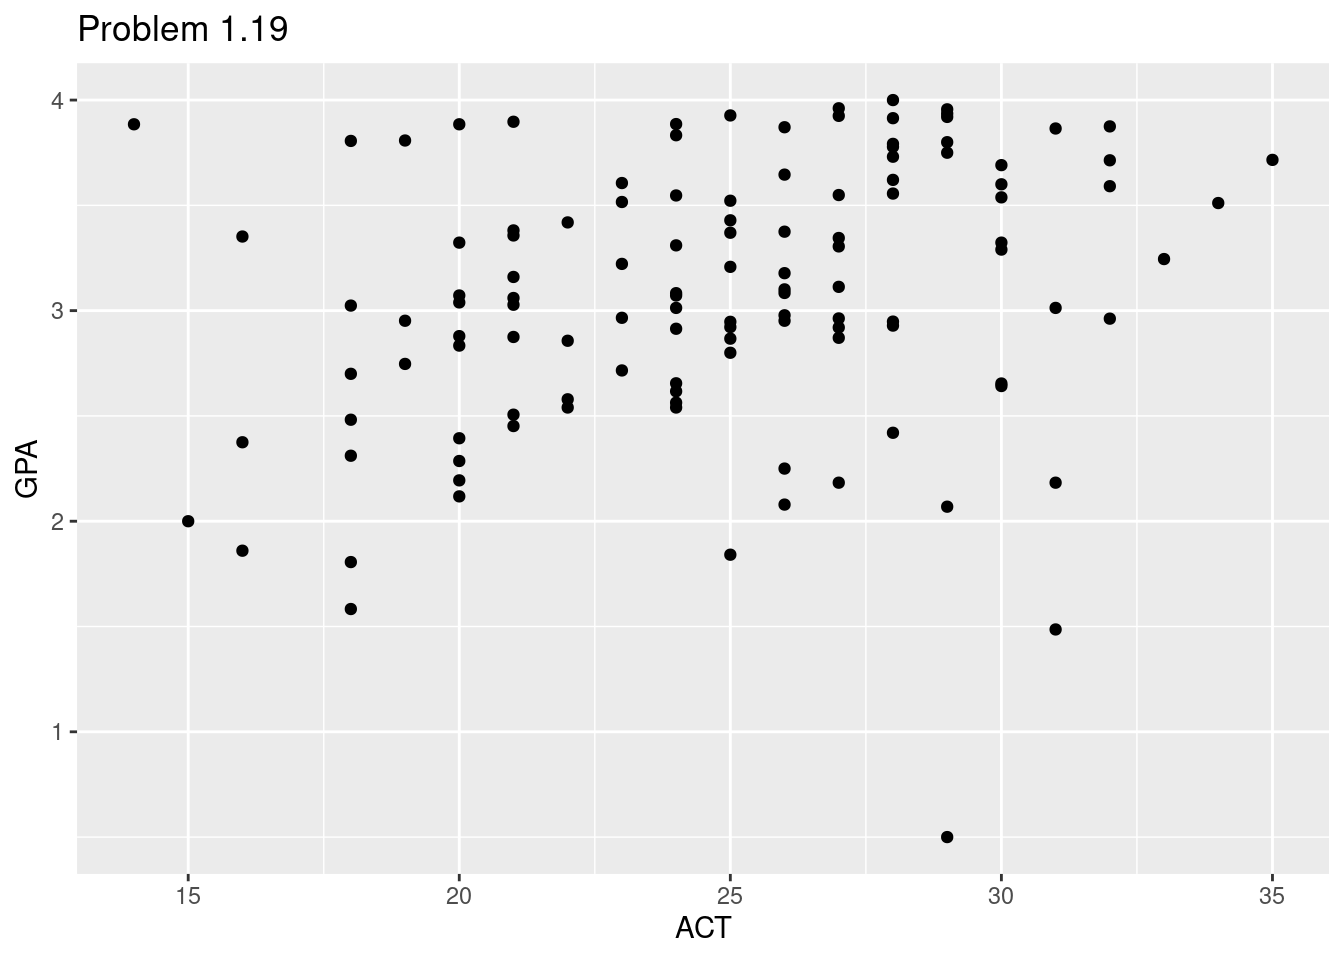
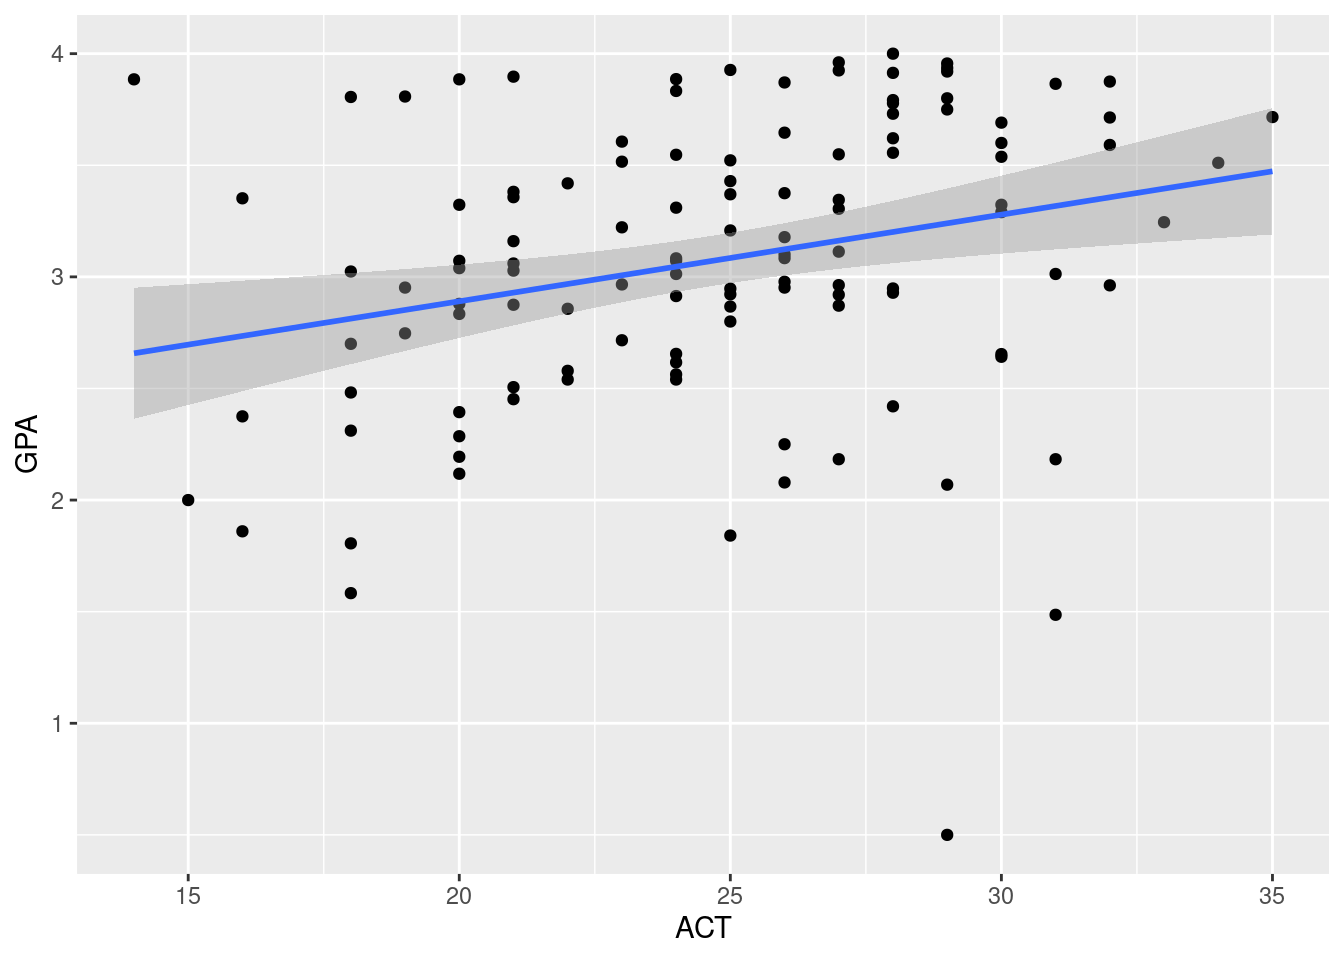
Built site for gh-pages

diff --git a/Rintro.html b/Rintro.html
@@ -355,17 +355,28 @@ pre > code.sourceCode > span > a:first-child::before { text-decoration: underlin
 <div class="sourceCode cell-code" id="cb19"><pre class="sourceCode r code-with-copy"><code class="sourceCode r"><span id="cb19-1"><a href="#cb19-1" aria-hidden="true" tabindex="-1"></a><span class="fu">library</span>(ggplot2)</span>
 <span id="cb19-2"><a href="#cb19-2" aria-hidden="true" tabindex="-1"></a><span class="fu">ggplot</span>(Data, <span class="fu">aes</span>(<span class="at">x =</span> ACT, <span class="at">y =</span> GPA))<span class="sc">+</span></span>
 <span id="cb19-3"><a href="#cb19-3" aria-hidden="true" tabindex="-1"></a>  <span class="fu">geom_point</span>()<span class="sc">+</span></span>
-<span id="cb19-4"><a href="#cb19-4" aria-hidden="true" tabindex="-1"></a>  <span class="fu">labs</span>(</span>
-<span id="cb19-5"><a href="#cb19-5" aria-hidden="true" tabindex="-1"></a>    <span class="at">title =</span> <span class="st">"Problem 1.19"</span></span>
-<span id="cb19-6"><a href="#cb19-6" aria-hidden="true" tabindex="-1"></a>  )</span></code><button title="Copy to Clipboard" class="code-copy-button"><i class="bi"></i></button></pre></div>
+<span id="cb19-4"><a href="#cb19-4" aria-hidden="true" tabindex="-1"></a>  <span class="fu">geom_smooth</span>(<span class="at">method =</span> <span class="st">"lm"</span>)</span></code><button title="Copy to Clipboard" class="code-copy-button"><i class="bi"></i></button></pre></div>
+<div class="cell-output cell-output-stderr">
+<pre><code>`geom_smooth()` using formula = 'y ~ x'</code></pre>
+</div>
 <div class="cell-output-display">
 <p><img src="Rintro_files/figure-html/unnamed-chunk-17-1.png" class="img-fluid" width="672"></p>
+</div>
+<div class="sourceCode cell-code" id="cb21"><pre class="sourceCode r code-with-copy"><code class="sourceCode r"><span id="cb21-1"><a href="#cb21-1" aria-hidden="true" tabindex="-1"></a>  <span class="fu">labs</span>(</span>
+<span id="cb21-2"><a href="#cb21-2" aria-hidden="true" tabindex="-1"></a>    <span class="at">title =</span> <span class="st">"Problem 1.19"</span></span>
+<span id="cb21-3"><a href="#cb21-3" aria-hidden="true" tabindex="-1"></a>  )</span></code><button title="Copy to Clipboard" class="code-copy-button"><i class="bi"></i></button></pre></div>
+<div class="cell-output cell-output-stdout">
+<pre><code>$title
+[1] "Problem 1.19"
+
+attr(,"class")
+[1] "labels"</code></pre>
 </div>
 </div>
 <p>To save your plot, click anywhere on the plot, then on the menu bar choose <code>File</code>, then <code>Save as</code>. Choose the format in which you want to save the plot, then where you want to save it on your drive.</p>
 <p>Check the estimates for the intercept and slope:</p>
 <div class="cell">
-<div class="sourceCode cell-code" id="cb20"><pre class="sourceCode r code-with-copy"><code class="sourceCode r"><span id="cb20-1"><a href="#cb20-1" aria-hidden="true" tabindex="-1"></a>fit</span></code><button title="Copy to Clipboard" class="code-copy-button"><i class="bi"></i></button></pre></div>
+<div class="sourceCode cell-code" id="cb23"><pre class="sourceCode r code-with-copy"><code class="sourceCode r"><span id="cb23-1"><a href="#cb23-1" aria-hidden="true" tabindex="-1"></a>fit</span></code><button title="Copy to Clipboard" class="code-copy-button"><i class="bi"></i></button></pre></div>
 <div class="cell-output cell-output-stdout">
 <pre><code>
 Call:
@@ -378,16 +389,16 @@ Coefficients:
 </div>
 <p>Compute fitted values:</p>
 <div class="cell">
-<div class="sourceCode cell-code" id="cb22"><pre class="sourceCode r code-with-copy"><code class="sourceCode r"><span id="cb22-1"><a href="#cb22-1" aria-hidden="true" tabindex="-1"></a>fit<span class="sc">$</span>fitted.values </span></code><button title="Copy to Clipboard" class="code-copy-button"><i class="bi"></i></button></pre></div>
+<div class="sourceCode cell-code" id="cb25"><pre class="sourceCode r code-with-copy"><code class="sourceCode r"><span id="cb25-1"><a href="#cb25-1" aria-hidden="true" tabindex="-1"></a>fit<span class="sc">$</span>fitted.values </span></code><button title="Copy to Clipboard" class="code-copy-button"><i class="bi"></i></button></pre></div>
 </div>
 <p>Compute residuals:</p>
 <div class="cell">
-<div class="sourceCode cell-code" id="cb23"><pre class="sourceCode r code-with-copy"><code class="sourceCode r"><span id="cb23-1"><a href="#cb23-1" aria-hidden="true" tabindex="-1"></a>fit<span class="sc">$</span>residuals</span></code><button title="Copy to Clipboard" class="code-copy-button"><i class="bi"></i></button></pre></div>
+<div class="sourceCode cell-code" id="cb26"><pre class="sourceCode r code-with-copy"><code class="sourceCode r"><span id="cb26-1"><a href="#cb26-1" aria-hidden="true" tabindex="-1"></a>fit<span class="sc">$</span>residuals</span></code><button title="Copy to Clipboard" class="code-copy-button"><i class="bi"></i></button></pre></div>
 </div>
 <p>Compute the estimate of <span class="math inline">\(\sigma^2\)</span>, that is, the MSE:</p>
 <div class="cell">
-<div class="sourceCode cell-code" id="cb24"><pre class="sourceCode r code-with-copy"><code class="sourceCode r"><span id="cb24-1"><a href="#cb24-1" aria-hidden="true" tabindex="-1"></a>n <span class="ot">&lt;-</span> <span class="fu">dim</span>(Data)[<span class="dv">1</span>]</span>
-<span id="cb24-2"><a href="#cb24-2" aria-hidden="true" tabindex="-1"></a><span class="fu">sum</span>(fit<span class="sc">$</span>residuals<span class="sc">^</span><span class="dv">2</span>)<span class="sc">/</span>(n<span class="dv">-2</span>)</span></code><button title="Copy to Clipboard" class="code-copy-button"><i class="bi"></i></button></pre></div>
+<div class="sourceCode cell-code" id="cb27"><pre class="sourceCode r code-with-copy"><code class="sourceCode r"><span id="cb27-1"><a href="#cb27-1" aria-hidden="true" tabindex="-1"></a>n <span class="ot">&lt;-</span> <span class="fu">dim</span>(Data)[<span class="dv">1</span>]</span>
+<span id="cb27-2"><a href="#cb27-2" aria-hidden="true" tabindex="-1"></a><span class="fu">sum</span>(fit<span class="sc">$</span>residuals<span class="sc">^</span><span class="dv">2</span>)<span class="sc">/</span>(n<span class="dv">-2</span>)</span></code><button title="Copy to Clipboard" class="code-copy-button"><i class="bi"></i></button></pre></div>
 <div class="cell-output cell-output-stdout">
 <pre><code>[1] 0.3882848</code></pre>
 </div>
